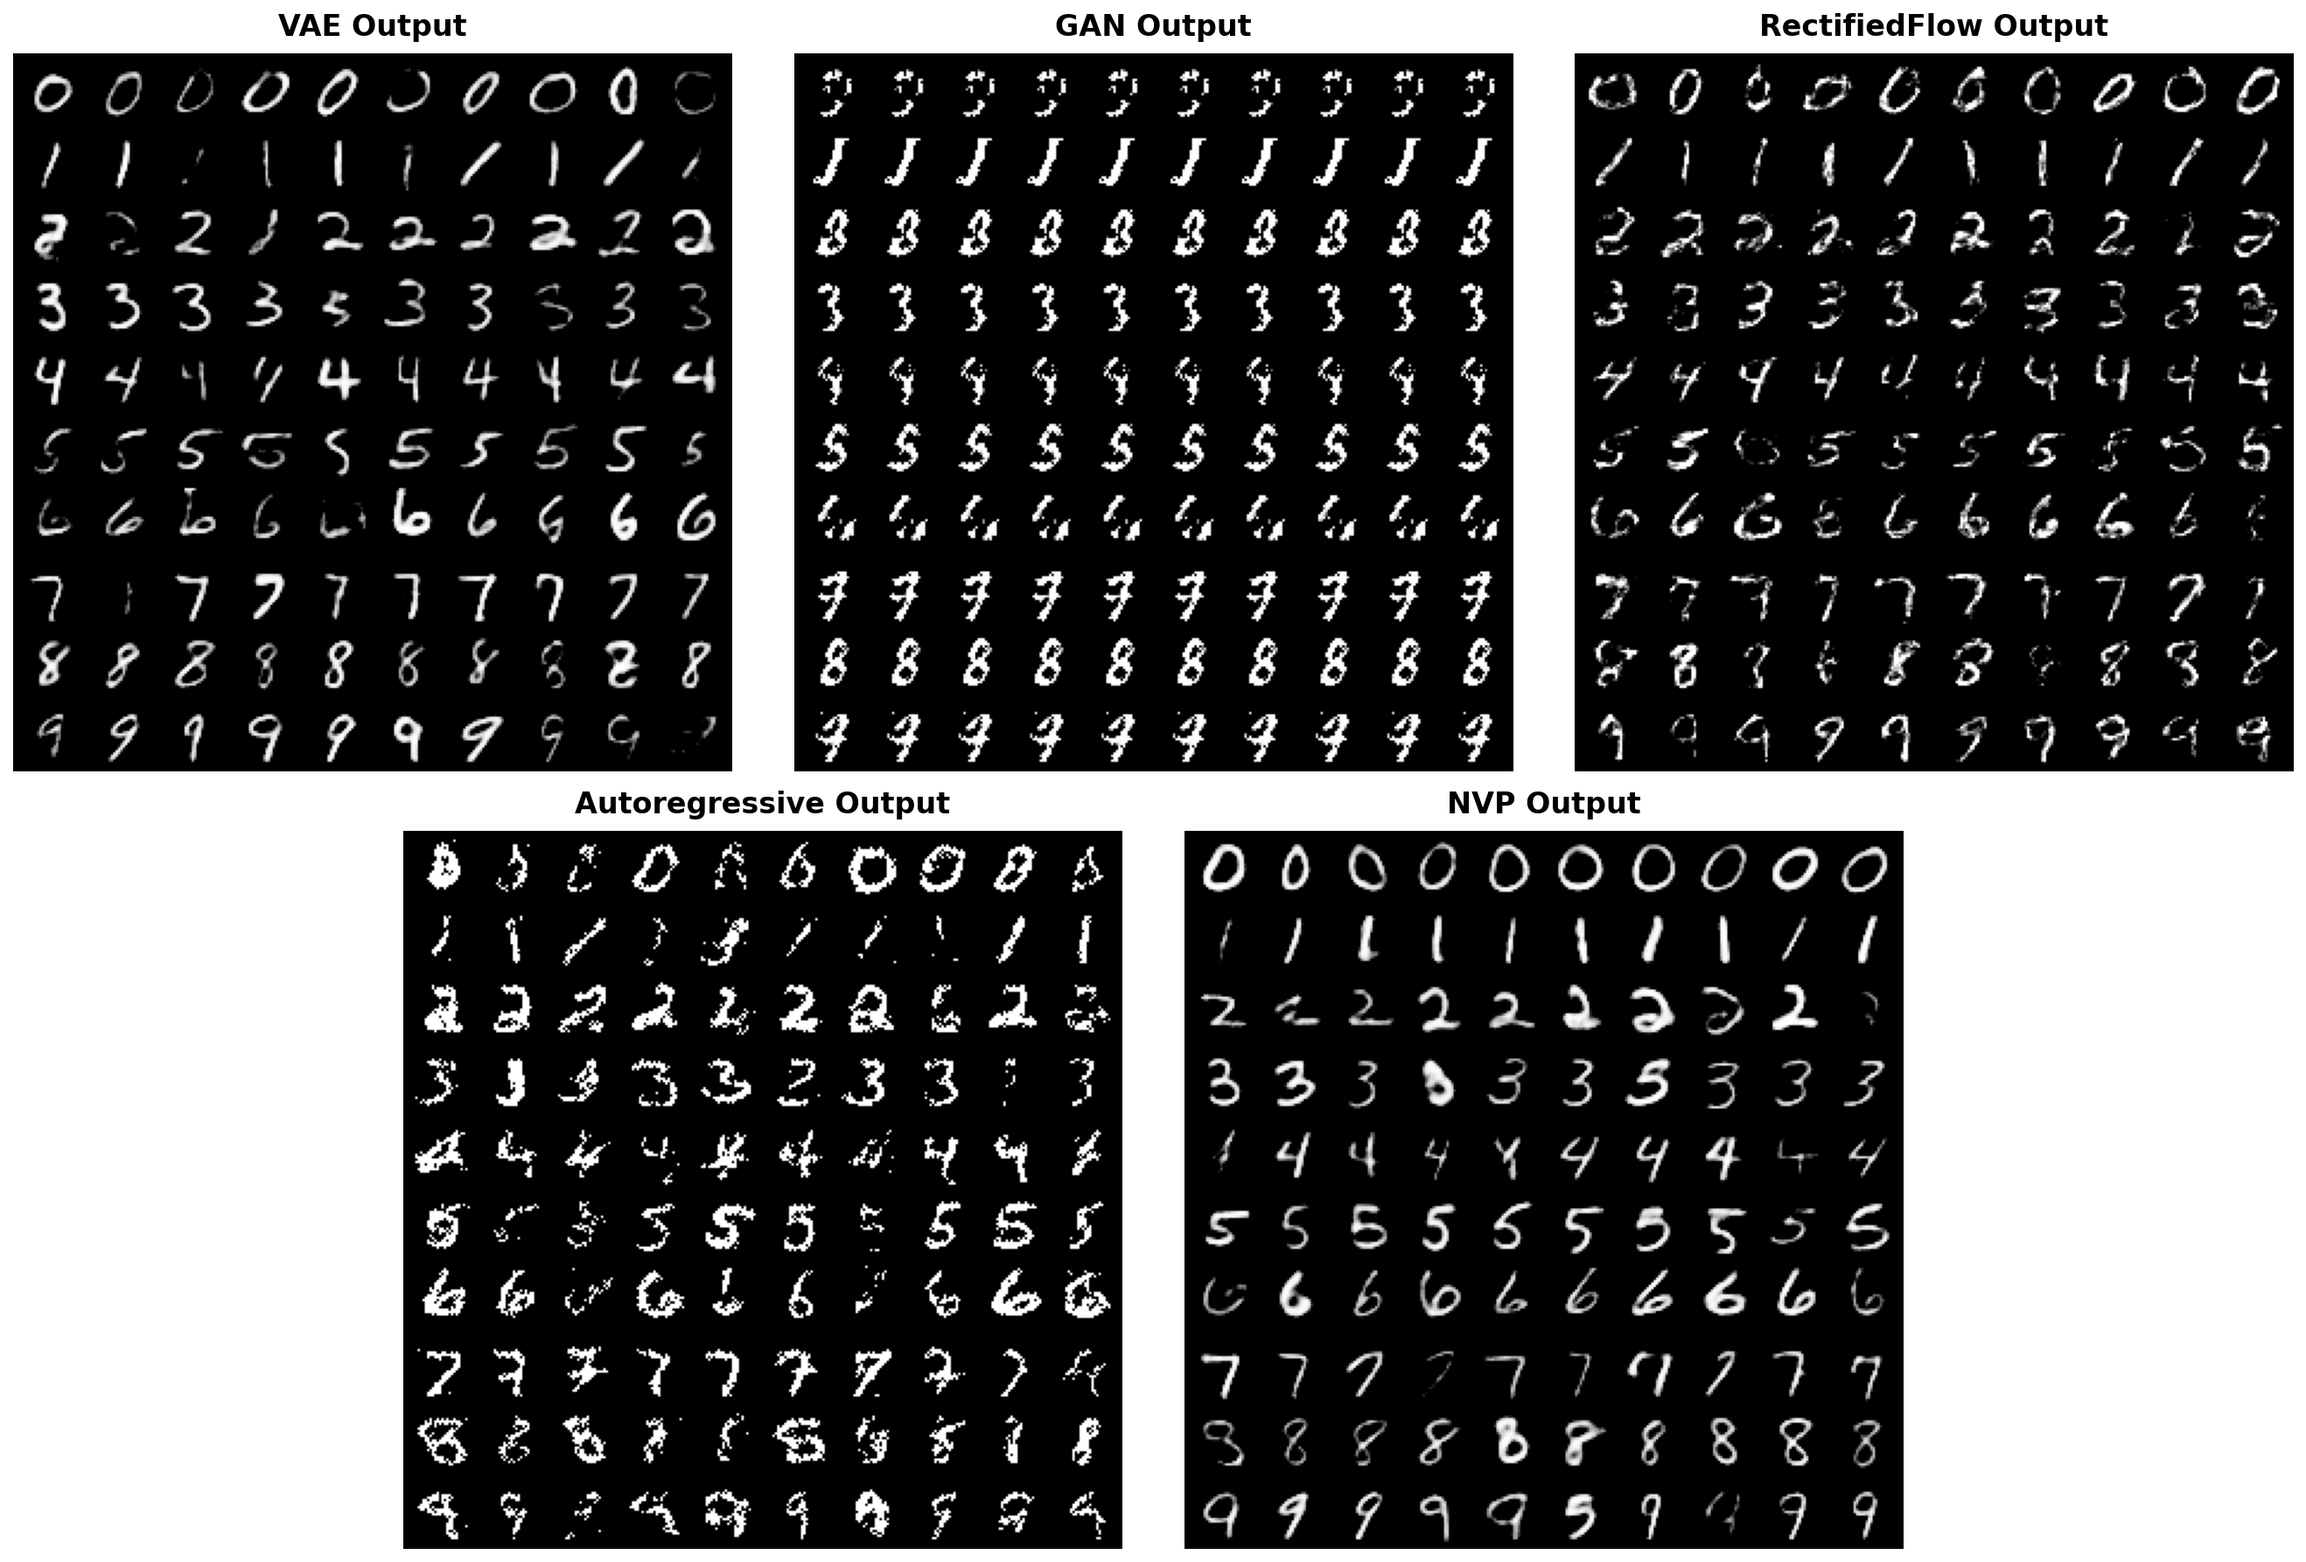
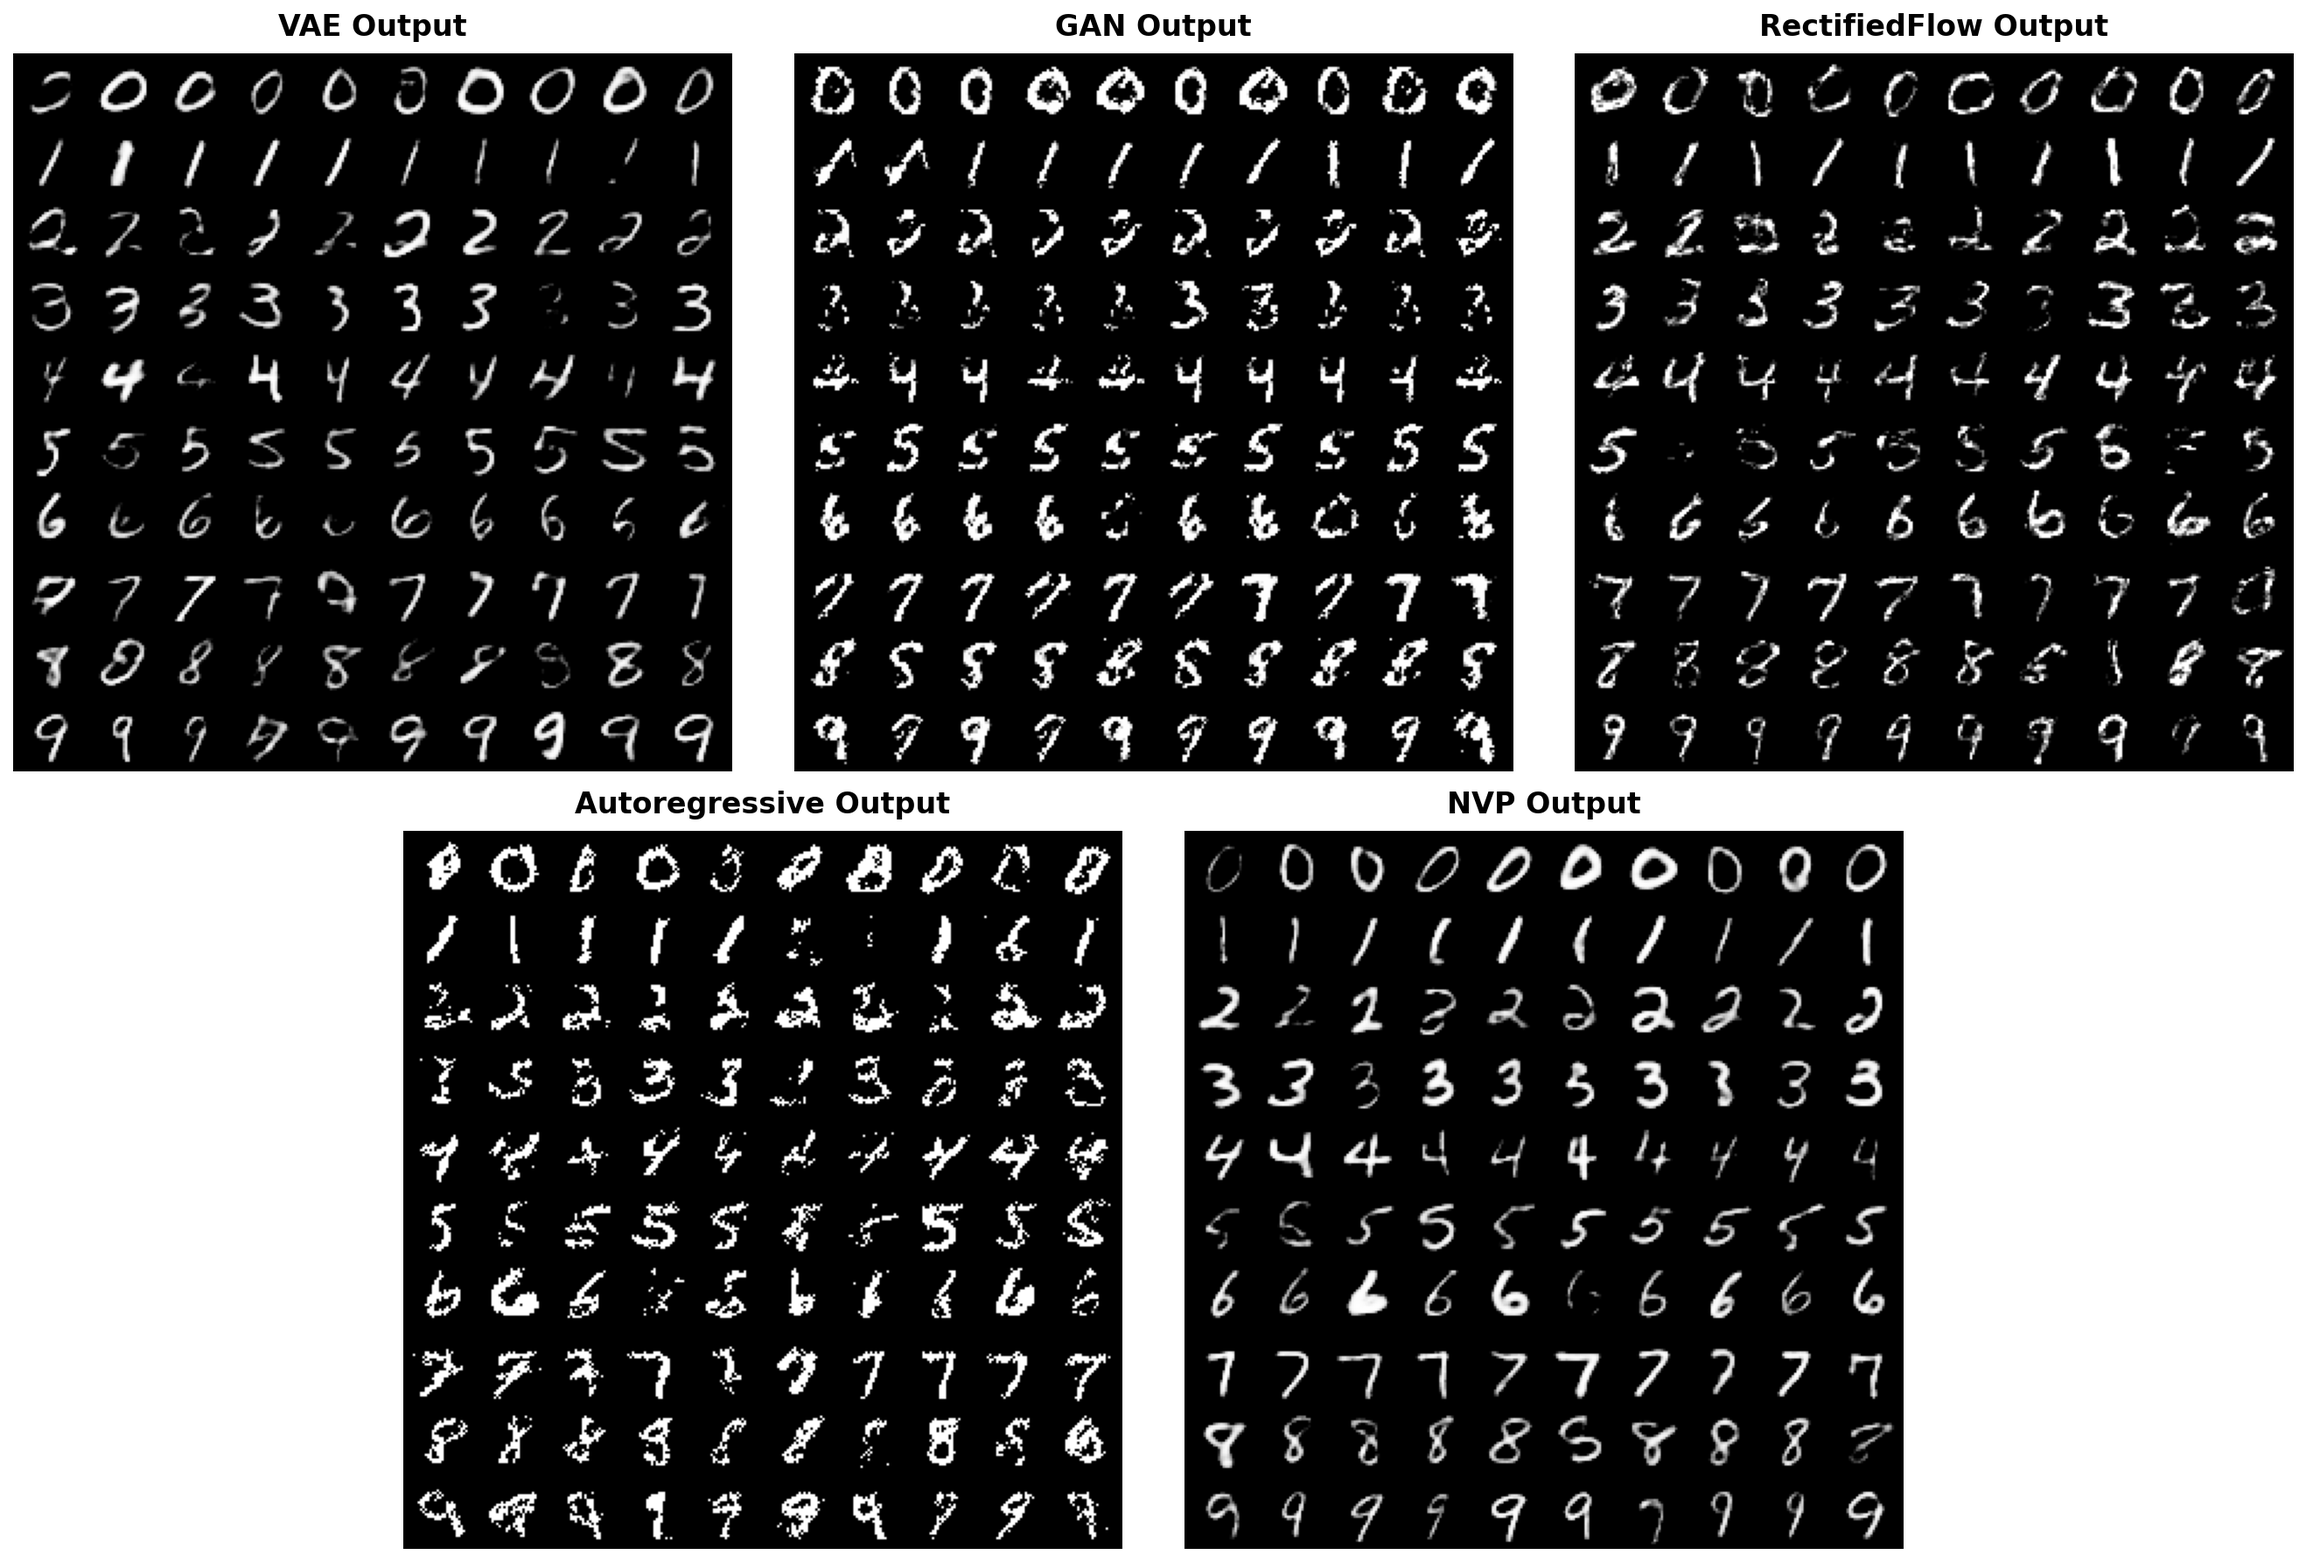
final finished optimized model. TODO parameter testing optimieren

diff --git a/models/generative_adversarial_network/generative_adversarial_network.py b/models/generative_adversarial_network/generative_adversarial_network.py
@@ -5,7 +5,8 @@ import torch.nn.functional as F
 class Generator(nn.Module):
     def __init__(self, latent_dim, num_classes):
         super().__init__()
-        self.label_emb = nn.Embedding(num_classes, 50) 
+        # Linear projection for a stronger class signal than Embedding
+        self.label_proj = nn.Linear(num_classes, 50)
         self.model = nn.Sequential(
             nn.Linear(latent_dim + 50, 256), 
             nn.LeakyReLU(0.2, inplace=True),
@@ -16,11 +17,13 @@ class Generator(nn.Module):
             nn.BatchNorm1d(1024),
             nn.LeakyReLU(0.2, inplace=True),
             nn.Linear(1024, 784),
-            nn.Sigmoid()
+            nn.Sigmoid() # Map pixels to [0, 1]
         )
 
     def forward(self, noise, labels):
-        c = self.label_emb(labels)
+        # Convert to one-hot and project
+        c_oh = F.one_hot(labels, num_classes=10).float()
+        c = self.label_proj(c_oh)
         x = torch.cat([noise, c], 1)
         img = self.model(x)
         return img.view(img.size(0), 1, 28, 28)
@@ -28,7 +31,7 @@ class Generator(nn.Module):
 class Discriminator(nn.Module):
     def __init__(self, num_classes):
         super().__init__()
-        self.label_emb = nn.Embedding(num_classes, 50) 
+        self.label_proj = nn.Linear(num_classes, 50)
         self.model = nn.Sequential(
             nn.Linear(784 + 50, 512),
             nn.LeakyReLU(0.2, inplace=True),
@@ -43,10 +46,10 @@ class Discriminator(nn.Module):
         )
 
     def forward(self, img, labels):
-        c = self.label_emb(labels)
+        c_oh = F.one_hot(labels, num_classes=10).float()
+        c = self.label_proj(c_oh)
         x = torch.cat([img.view(img.size(0), -1), c], 1)
-        validity = self.model(x)
-        return validity
+        return self.model(x)
     
 class ConditionalGAN(nn.Module):
     def __init__(self, latent_dim=100, num_classes=10, lr_G=2e-4, lr_D=1e-4):
@@ -62,6 +65,7 @@ class ConditionalGAN(nn.Module):
         self.adversarial_loss = torch.nn.BCEWithLogitsLoss()
 
     def generate(self, y):
+        """Generates images scaled to [-1, 1] for Oracle evaluation"""
         device = y.device
         z = torch.randn(y.size(0), self.latent_dim, device=device)
         generated_imgs = self.generator(z, y)
@@ -87,8 +91,8 @@ class ConditionalGAN(nn.Module):
         d_loss.backward()
         self.optimizer_D.step()
 
+        # 2. Train Generator (Balanced 1:1 Update)
         self.optimizer_G.zero_grad()
-        
         z = torch.randn(batch_size, self.latent_dim, device=device)
         gen_imgs = self.generator(z, y)
         
@@ -97,3 +101,57 @@ class ConditionalGAN(nn.Module):
         self.optimizer_G.step()
 
         return {"g_loss": g_loss.item(), "d_loss": d_loss.item()}
+
+    def forget_step(self, batch_size, target_class, frozen_model=None, gamma=0.1, lmbda=1.0, loss_type="l1", device=None):
+        """Restored original forget logic updated for new architecture"""
+        if device is None:
+            device = next(self.parameters()).device
+
+        self.optimizer_G.zero_grad()
+        c_forget = torch.full((batch_size,), target_class, dtype=torch.long, device=device)
+        z_forget = torch.randn(batch_size, self.latent_dim, device=device)
+        gen_forget = self.generator(z_forget, c_forget)
+
+        # 1. Corrupting Phase (Selective Amnesia modes)
+        if loss_type == "l1":
+            # Targeted: Force class to look like '8's
+            c_target_spoof = torch.full((batch_size,), 8, dtype=torch.long, device=device)
+            with torch.no_grad():
+                spoof_imgs = frozen_model.generator(z_forget, c_target_spoof)
+            loss_corrupt = 50.0 * F.l1_loss(gen_forget, spoof_imgs)
+            
+        elif loss_type == "smooth_l1":
+            c_target_spoof = torch.full((batch_size,), 8, dtype=torch.long, device=device)
+            with torch.no_grad():
+                spoof_imgs = frozen_model.generator(z_forget, c_target_spoof)
+            loss_corrupt = 50.0 * F.smooth_l1_loss(gen_forget, spoof_imgs, beta=0.1)
+            
+        elif loss_type == "adversarial":
+            fake_labels = torch.zeros(batch_size, 1, device=device)
+            validity = self.discriminator(gen_forget, c_forget)
+            loss_corrupt = 0.5 * self.adversarial_loss(validity, fake_labels)
+            
+        elif loss_type == "negative_replay":
+            with torch.no_grad():
+                frozen_zeros = frozen_model.generator(z_forget, c_forget)
+            loss_corrupt = 5.0 * torch.clamp(-F.l1_loss(gen_forget, frozen_zeros), min=-5.0)
+
+        # 2. Generative Replay Phase
+        valid_classes = [c for c in range(self.num_classes) if c != target_class]
+        valid_classes_t = torch.tensor(valid_classes, device=device)
+        idx = torch.randint(0, len(valid_classes), (batch_size,), device=device)
+        c_remember = valid_classes_t[idx]
+        z_remember = torch.randn(batch_size, self.latent_dim, device=device)
+        
+        with torch.no_grad():
+            frozen_imgs = frozen_model.generator(z_remember, c_remember)
+            
+        current_imgs = self.generator(z_remember, c_remember)
+        loss_replay = F.l1_loss(current_imgs, frozen_imgs)
+
+        # 3. Combine and step
+        loss = loss_corrupt + (gamma * loss_replay)
+        loss.backward()
+        self.optimizer_G.step()
+
+        return {"gan_forget_loss": loss.item()}

diff --git a/extended_training.py b/extended_training.py
@@ -13,8 +13,8 @@ from models.autoregressive.autoregressive_model import ConditionalMADE
 
 CACHE_DIR = "models/weights/cache"
 
-VARIANTS = 1
-ACTIVE_MODELS = ["GAN","VAE","RectifiedFlow", "Autoregressive", "NVP"]
+VARIANTS = [2,3]
+ACTIVE_MODELS = ["VAE","GAN","RectifiedFlow", "Autoregressive", "NVP"]
 # "VAE","GAN","RectifiedFlow", "Autoregressive", "NVP"
 
 TRAIN_EPOCHS = {
@@ -53,9 +53,6 @@ def get_device():
 def train_model(model, dataloader, epochs, device, patience=15, min_delta=1e-4):
     model.to(device)
     model.train()
-    
-    device_type = device.type
-    torch.amp.GradScaler(device_type, enabled=(device_type == "cuda"))
     
     best_loss = float('inf')
     patience_counter = 0
@@ -155,8 +152,8 @@ if __name__ == "__main__":
         config = ARCHITECTURE_CONFIGS[name]
         epochs = TRAIN_EPOCHS.get(name, 30)
         
-        for variant in range(VARIANTS):
-            print(f"\n ~~~ Training {name} (Variant {variant + 1}/{VARIANTS}) ~~~")
+        for variant in VARIANTS:
+            print(f"\n ~~~ Training {name} (Variant {variant}/{len(VARIANTS)}) ~~~")
             
             torch.manual_seed(39 + variant)
             

diff --git a/evaluation/test_parameters.py b/evaluation/test_parameters.py
@@ -99,7 +99,7 @@ def run_optimization():
         param_combinations = [dict(zip(keys, v)) for v in itertools.product(*values)]
         
         temp_model = get_model_instance(name).to(device)
-        temp_model.load_state_dict(torch.load(base_path, map_location=device))
+        temp_model.load_state_dict(torch.load(base_path, map_location=device, weights_only=True))
         _, before_accs = evaluate_accuracy(temp_model, oracle, device, num_samples=200)
 
         fisher_dict = None
@@ -117,7 +117,7 @@ def run_optimization():
         for params in param_combinations:
             print(f"params to test {params}")
             model = get_model_instance(name).to(device)
-            model.load_state_dict(torch.load(base_path, map_location=device)) 
+            model.load_state_dict(torch.load(base_path, map_location=device, weights_only=True))
             
             frozen_model = copy.deepcopy(model).eval()
             for p in frozen_model.parameters(): p.requires_grad = False

diff --git a/test.py b/test.py
@@ -1,0 +1,28 @@
+import torch
+
+# Path to your old weights
+path = "models/weights/cache/gan_v1.pth"
+state_dict = torch.load(path, map_location="cpu")
+
+# List of components to fix
+components = ["generator", "discriminator"]
+
+for comp in components:
+    old_key = f"{comp}.label_emb.weight"
+    new_weight_key = f"{comp}.label_proj.weight"
+    new_bias_key = f"{comp}.label_proj.bias"
+    
+    if old_key in state_dict:
+        print(f"Converting {old_key}...")
+        # 1. Transpose the weight (10, 50) -> (50, 10) to match Linear requirements
+        state_dict[new_weight_key] = state_dict[old_key].t()
+        
+        # 2. Create a zero bias vector of size 50
+        state_dict[new_bias_key] = torch.zeros(50)
+        
+        # 3. Remove the old key
+        del state_dict[old_key]
+
+# Save the "fixed" weights back
+torch.save(state_dict, path)
+print("Surgery complete. You can now load the model.")

diff --git a/README.md b/README.md
@@ -12,6 +12,6 @@ By Thomas, Mehdi and Lela
 
 1. training.py (trains with different architecture parameters and saves multiple weights)
 2. train_oracle.py (trains oracle)
-3. check_architectures.py (tests trained architectures and picks best performing)
+3. check_architectures.py (tests trained architectures and picks best performing weights)
 4. test_parameters.py (tests best architecture for all models with different parameters)
 5. paper_plots.py (plots results for paper)
